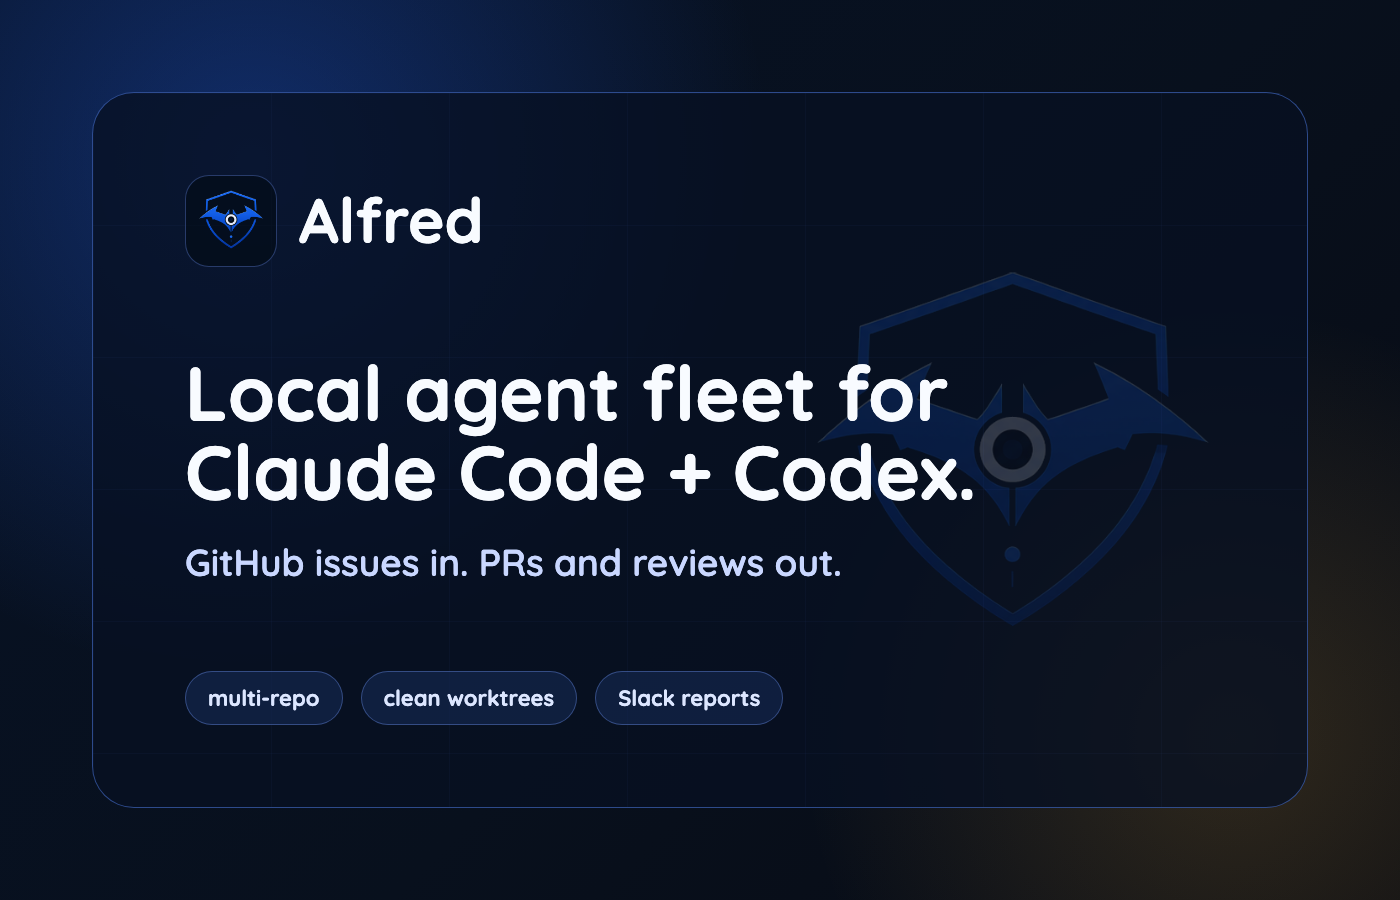
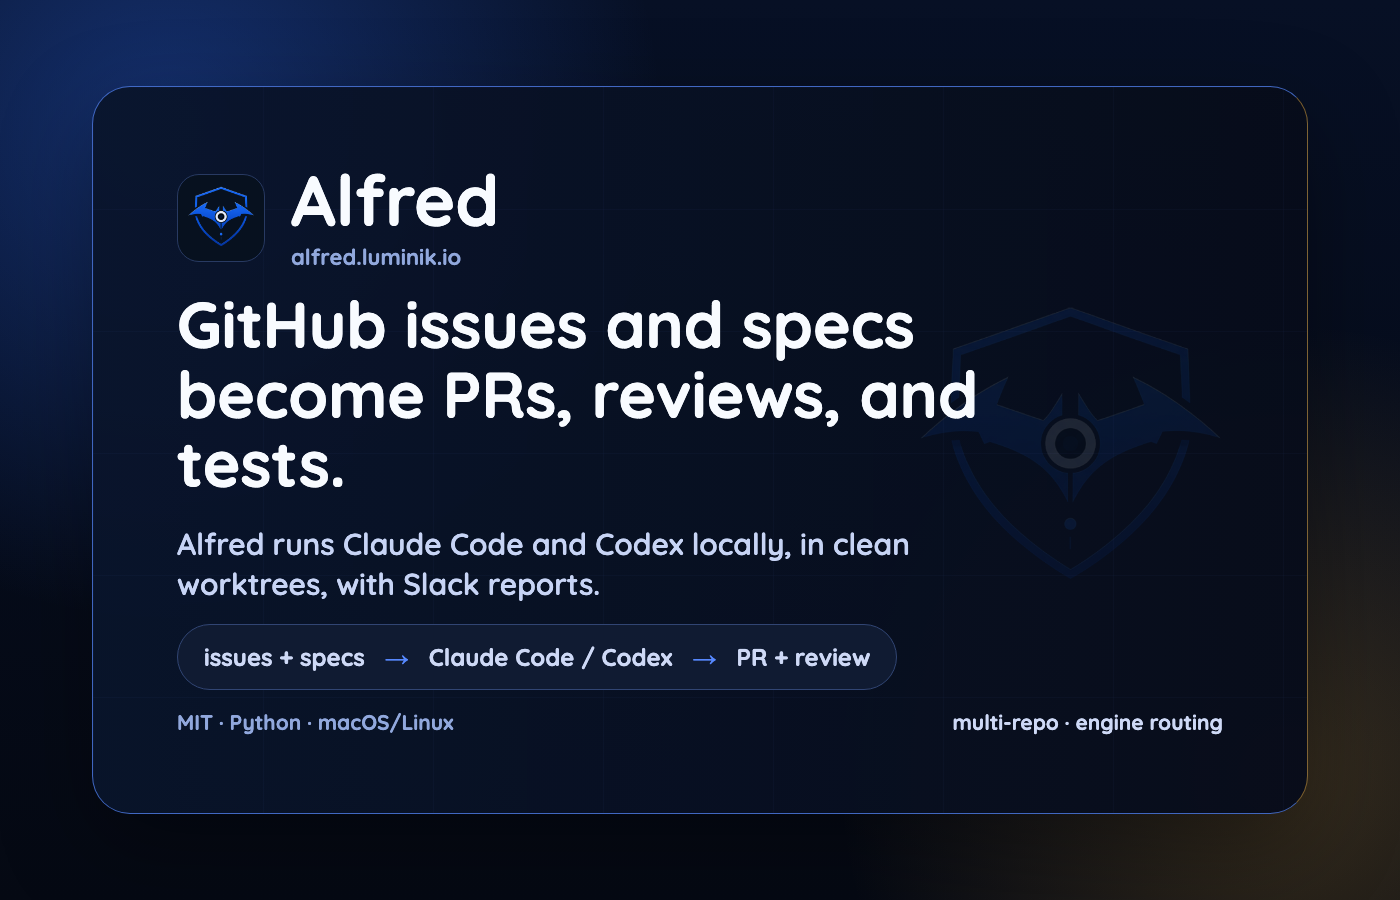
Refine Alfred profile positioning

diff --git a/src/data/orchestrators.ts b/src/data/orchestrators.ts
@@ -423,7 +423,7 @@ const alfredScreenshots = [
   {
     src: "/images/players/alfred/alfred-platform-context.png",
     alt: "Alfred local development agent positioning card",
-    caption: "Alfred positioning summary based on the public docs.",
+    caption: "Alfred positioning summary from the public docs.",
     sourceName: "Alfred docs",
     sourceUrl: "https://alfred.luminik.io/"
   }
@@ -495,15 +495,16 @@ export const orchestrators: OrchestratorEntry[] = [
       surface: "dark"
     },
     summary:
-      "Local runtime for autonomous development teammates on Claude Code and Codex.",
+      "Local runtime that turns GitHub issues and specs into autonomous Claude Code and Codex runs.",
     note:
-      "Turns GitHub issues, specs, and PR feedback into bounded local runs with issue claiming, label state, isolated git worktrees, PRs, reviews, tests, Slack reports, and per-agent engine routing.",
+      "Claims work, opens clean worktrees, creates PRs, reviews code, adds tests, and reports back to Slack.",
     overview: [
-      "Alfred is an MIT-licensed Python runtime for running autonomous development agents around existing Claude Code and Codex subscriptions.",
-      "It belongs in Open Orchestrators because it coordinates recurring engineering work end to end: GitHub issues and specs define scope, agents claim work with labels, each run executes in an isolated worktree, and results return as PRs, review notes, targeted tests, deploy checks, or shipped summaries."
+      "Alfred is an MIT-licensed Python runtime that turns GitHub issues and specs into scheduled Claude Code and Codex runs on a local Mac or Linux host.",
+      "Issues define scope, labels track state, and each firing gets a clean worktree. Results come back as PRs, review notes, tests, deploy checks, or shipped summaries.",
+      "Alfred fits this directory as the operating layer around coding sessions: intake, engine routing, bounded execution, review handoff, and repeatable runs across one repo or many."
     ],
-    bestFor: ["Autonomous development agents", "Multi-repo issue to PR loops", "Claude Code and Codex routing"],
-    tags: ["development agents", "multi-repo", "worktrees", "GitHub issues", "Slack reports", "engine routing", "MIT"],
+    bestFor: ["GitHub issue to PR workflows", "Multi-repo engineering agents", "Claude Code and Codex routing"],
+    tags: ["engineering agents", "GitHub issues", "specs", "worktrees", "pull requests", "engine routing", "MIT"],
     links: [
       {
         label: "Docs",